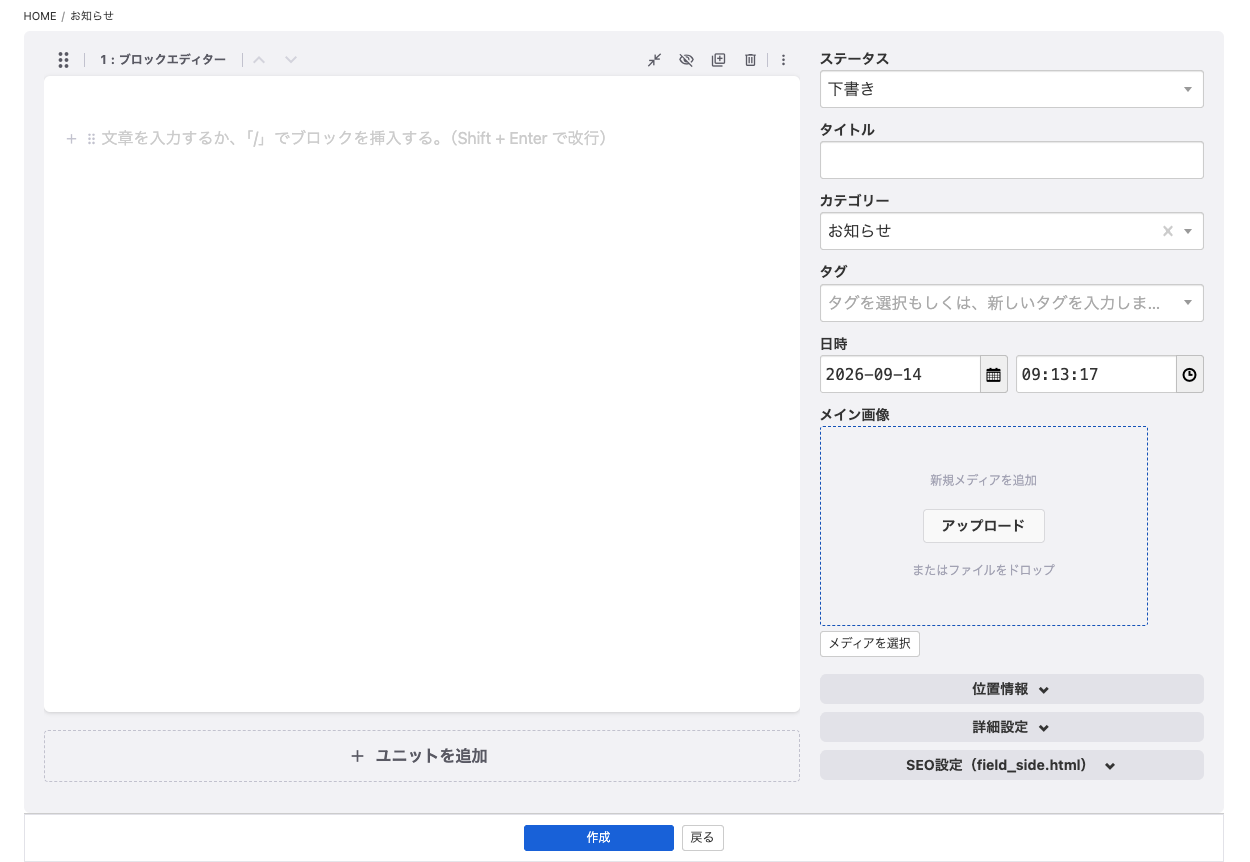
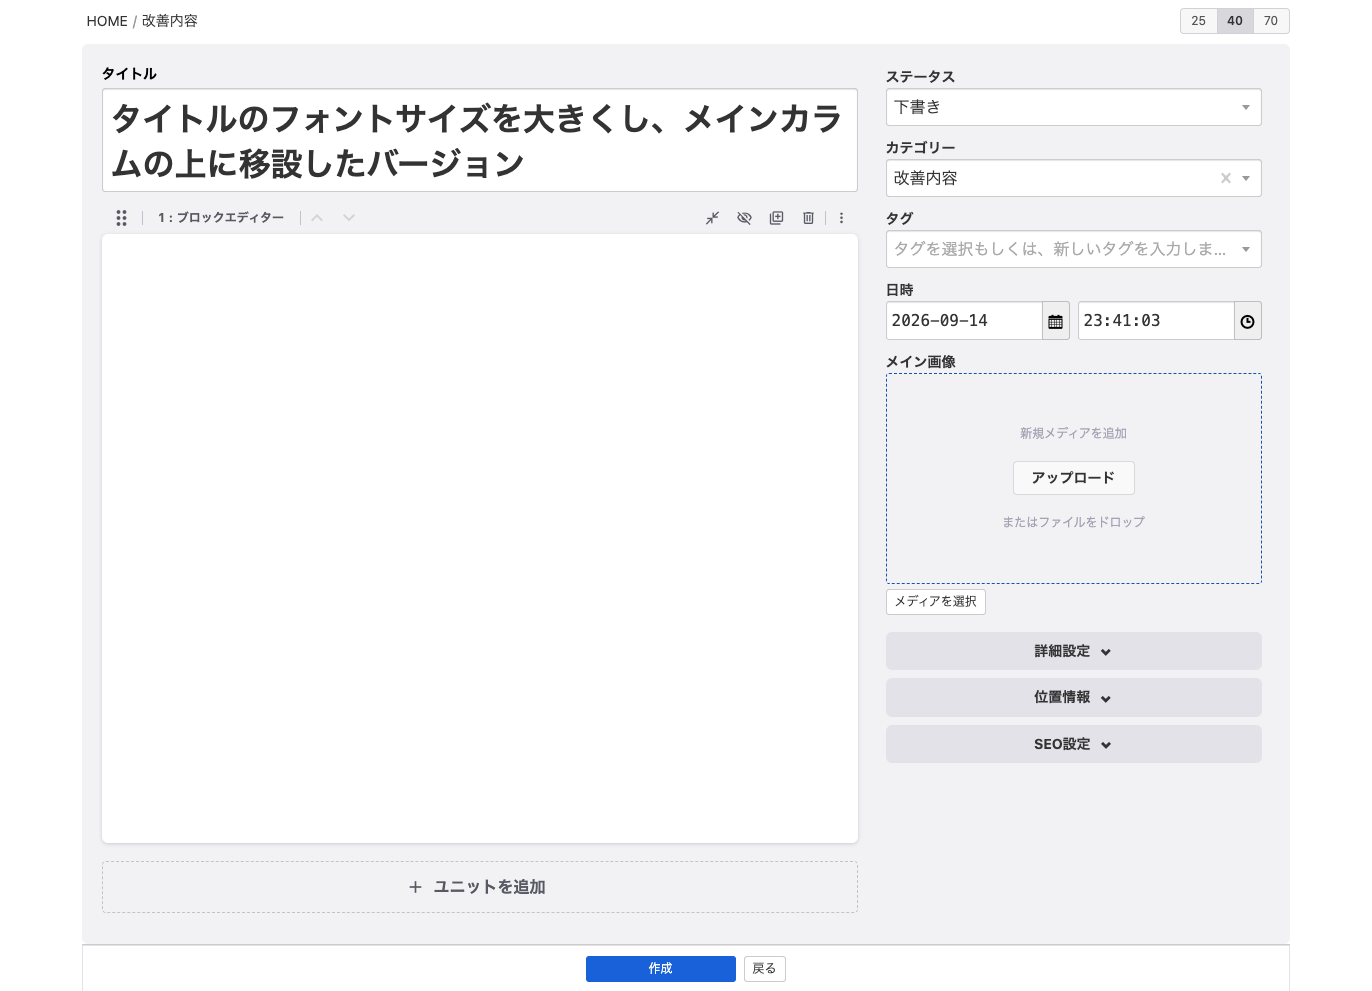
docs: 仕様書とスクリーンショットを現在の実装に更新
- 17章を書き直し。タイトルの本文カラム移動、本文幅の切り替えUI、1カラム時の並び、
  位置情報のアコーディオン化、ステータスのリッチセレクトなどを追記
- CSS / JS の置き場所（css/ と js/）とキャッシュの注意点を追記
- スクリーンショットを差し替え、README の説明と代替テキストを現在の配置に合わせた

diff --git a/README.md b/README.md
@@ -1,16 +1,15 @@
 # ui33-proto
 
-[a-blog cms](https://www.a-blogcms.jp/) の**エントリー編集画面を2カラムにする試作テーマ**。
-次バージョンの管理画面UIを検討するために作ったもので、製品に入っている機能ではありません。
+[a-blog cms](https://www.a-blogcms.jp/) の Ver. 3.3 で検討している **エントリー編集画面を2カラムにする試作用の子テーマ** です。次バージョンの管理画面UIを検討するために作ったもので、製品に入っている機能ではありません。 100% 採用されるものでもありません。
 
-![エントリー編集画面。左に本文のブロックエディター、右にステータス・タイトル・カテゴリー・タグ・日時・メイン画像などのメタ情報が並んでいる](docs/images/entry-edit.png)
+![エントリー編集画面。左にタイトルと本文のブロックエディター、右にステータス・カテゴリー・タグ・日時・メイン画像などのメタ情報が並び、右上に本文幅を切り替えるボタンがある](docs/images/entry-edit.png)
 
-左に本文（ブロックエディター）、右にステータス・タイトル・カテゴリー・タグ・日時などのメタ情報を置き、
+左にタイトルと本文（ブロックエディター）、右にステータス・カテゴリー・タグ・日時などのメタ情報を置き、
 それぞれ独立してスクロールします。幅が足りなくなると自動で1カラムに戻ります。
 
 ## できること
 
-- **2カラムレイアウト** — 本文は和文40字の行長を基準に固定、メタ情報カラムが外側に追加される
+- **2カラムレイアウト** — 標準は、本文は和文40字の行長を基準に固定されるが右上の数値のボタンでレイアウトも変更可能
 - **カラムごとの独立スクロール** — ページ自体はスクロールしない
 - **カスタムフィールドの挿入位置を4か所から選べる** — `@include` を書くファイルを変えるだけで移動できる
 - **パンくず** — 編集中のコンテンツがサイトのどこにあるか分かる
@@ -23,7 +22,7 @@
 
 ## 動作環境
 
-- a-blog cms 3.3 系
+- a-blog cms 3.2.x 系
 - ブラウザは **CSS コンテナクエリと `:has()` に対応したもの**（Safari 16+ / Chrome 105+ / Firefox 121+）
   - 未対応の環境では2カラムにならず、従来どおりの1カラムで表示されます（壊れません）
 
